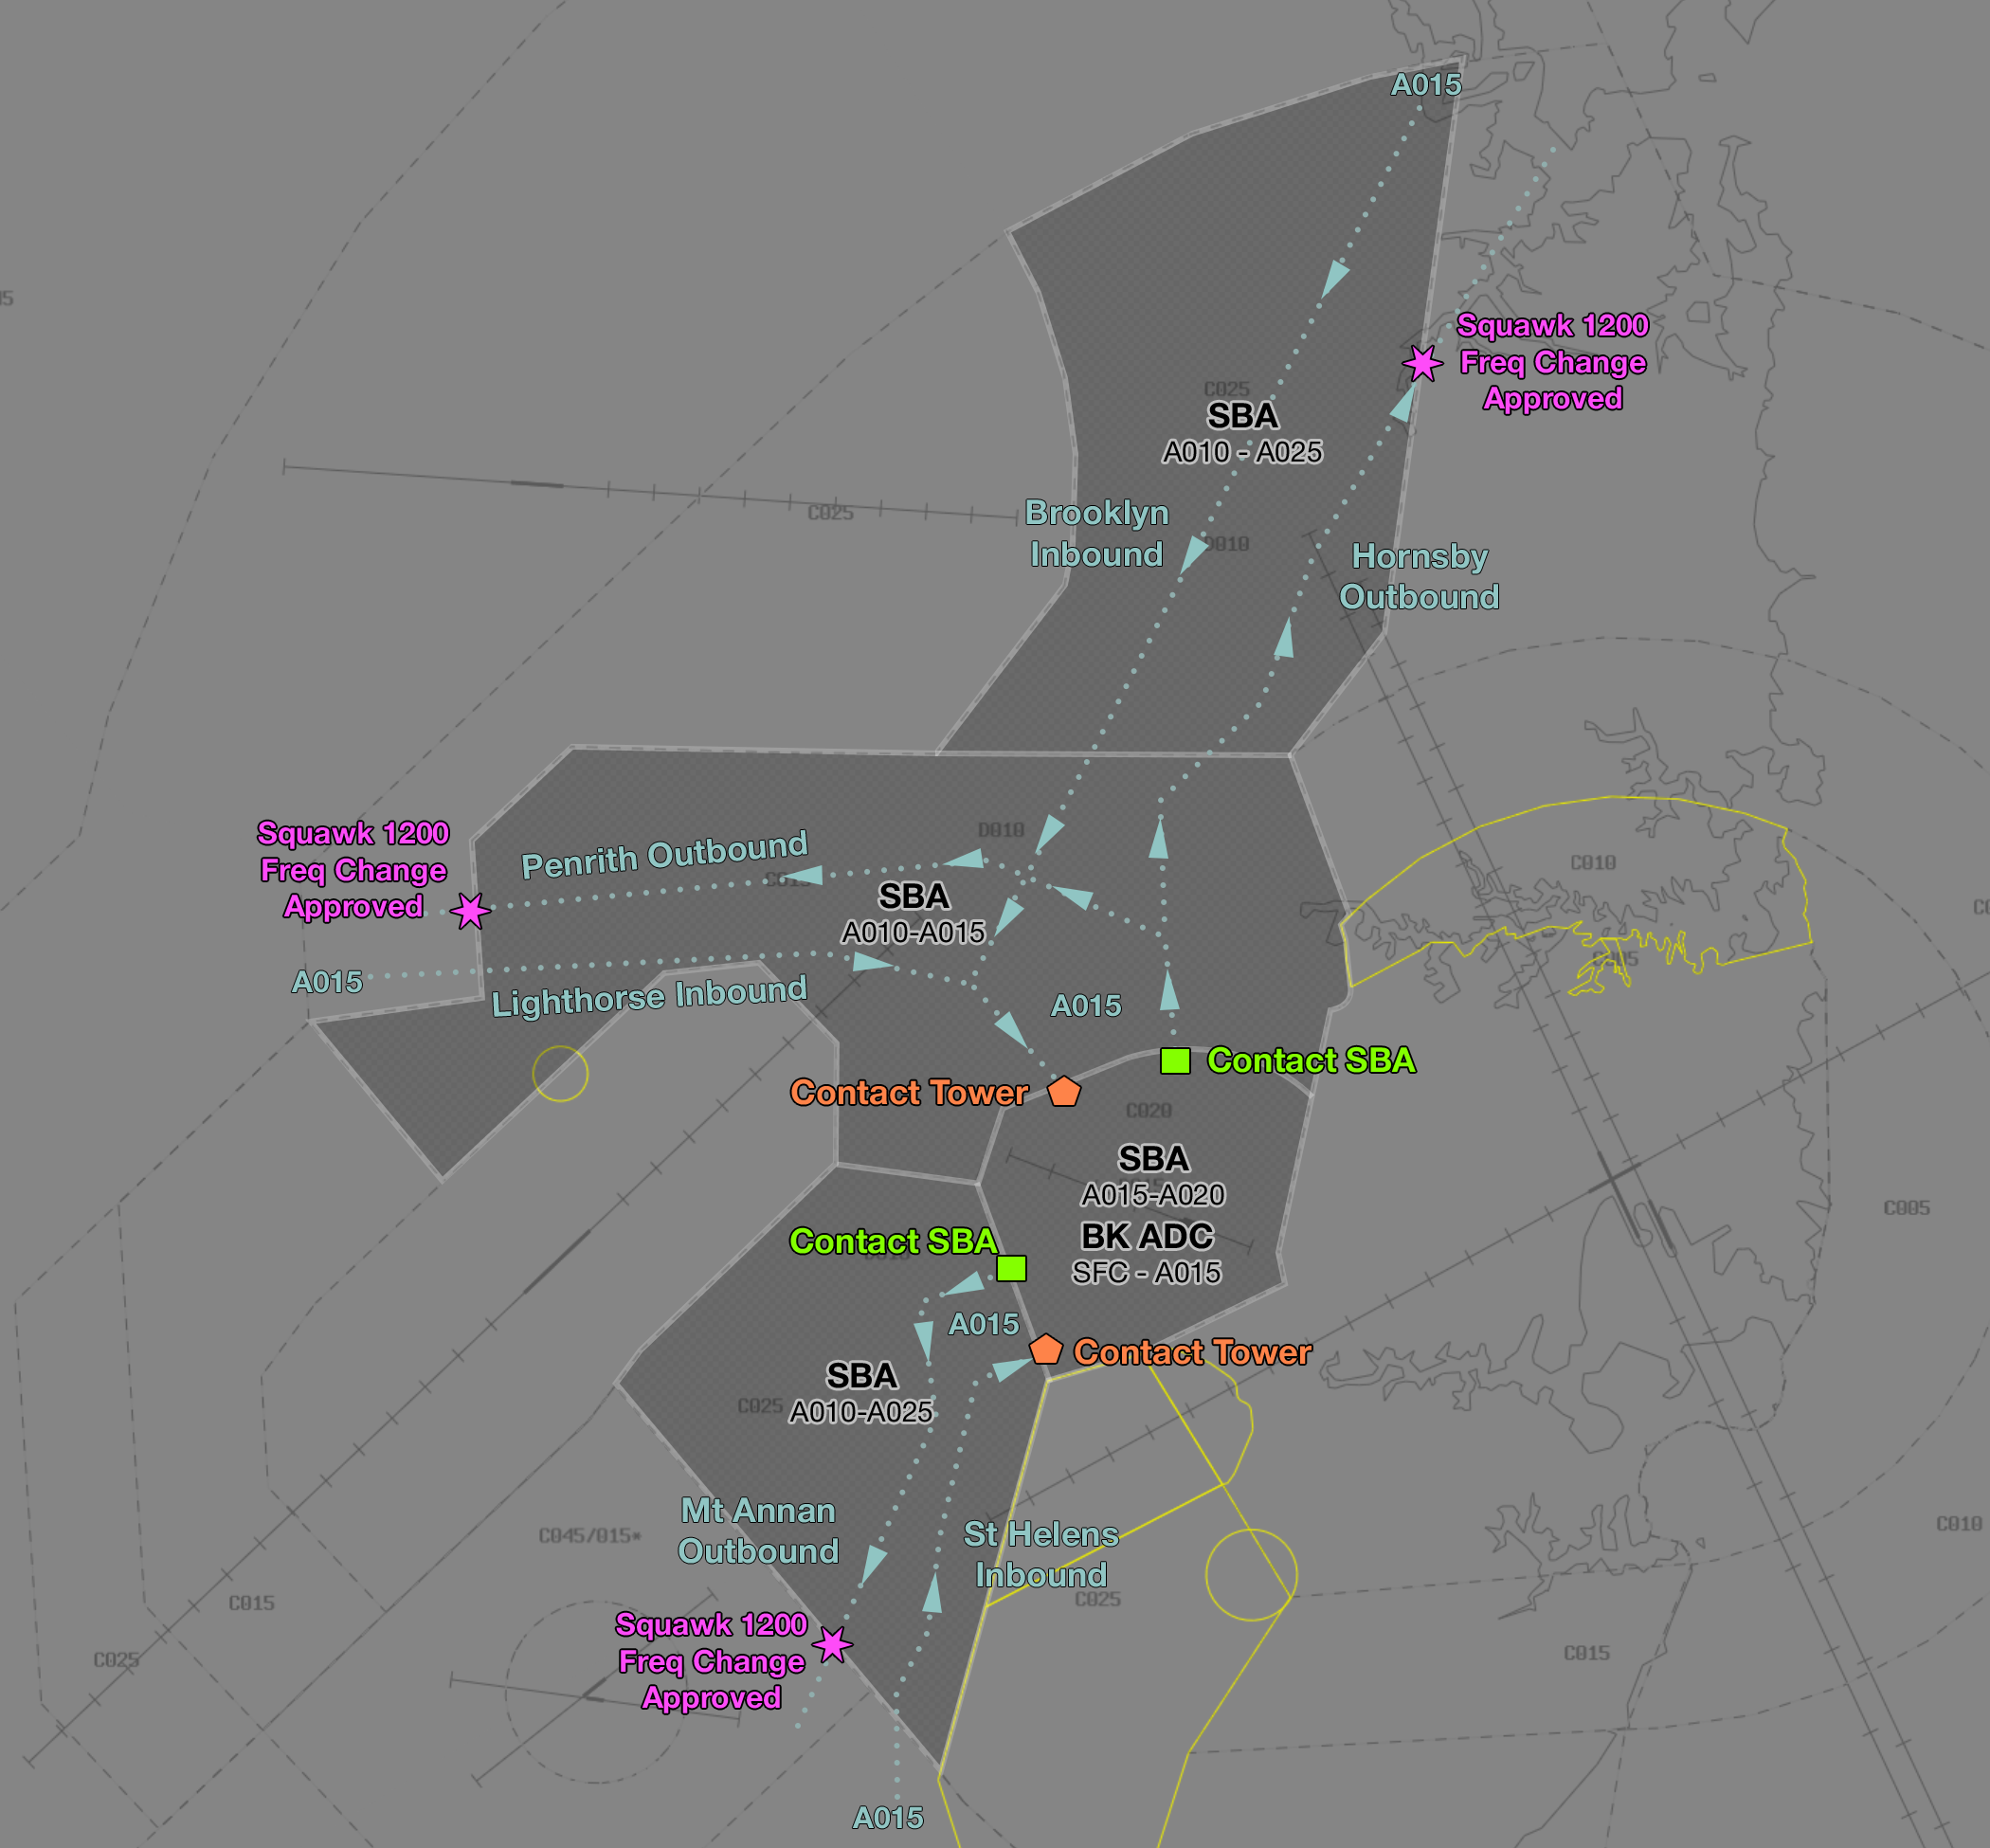
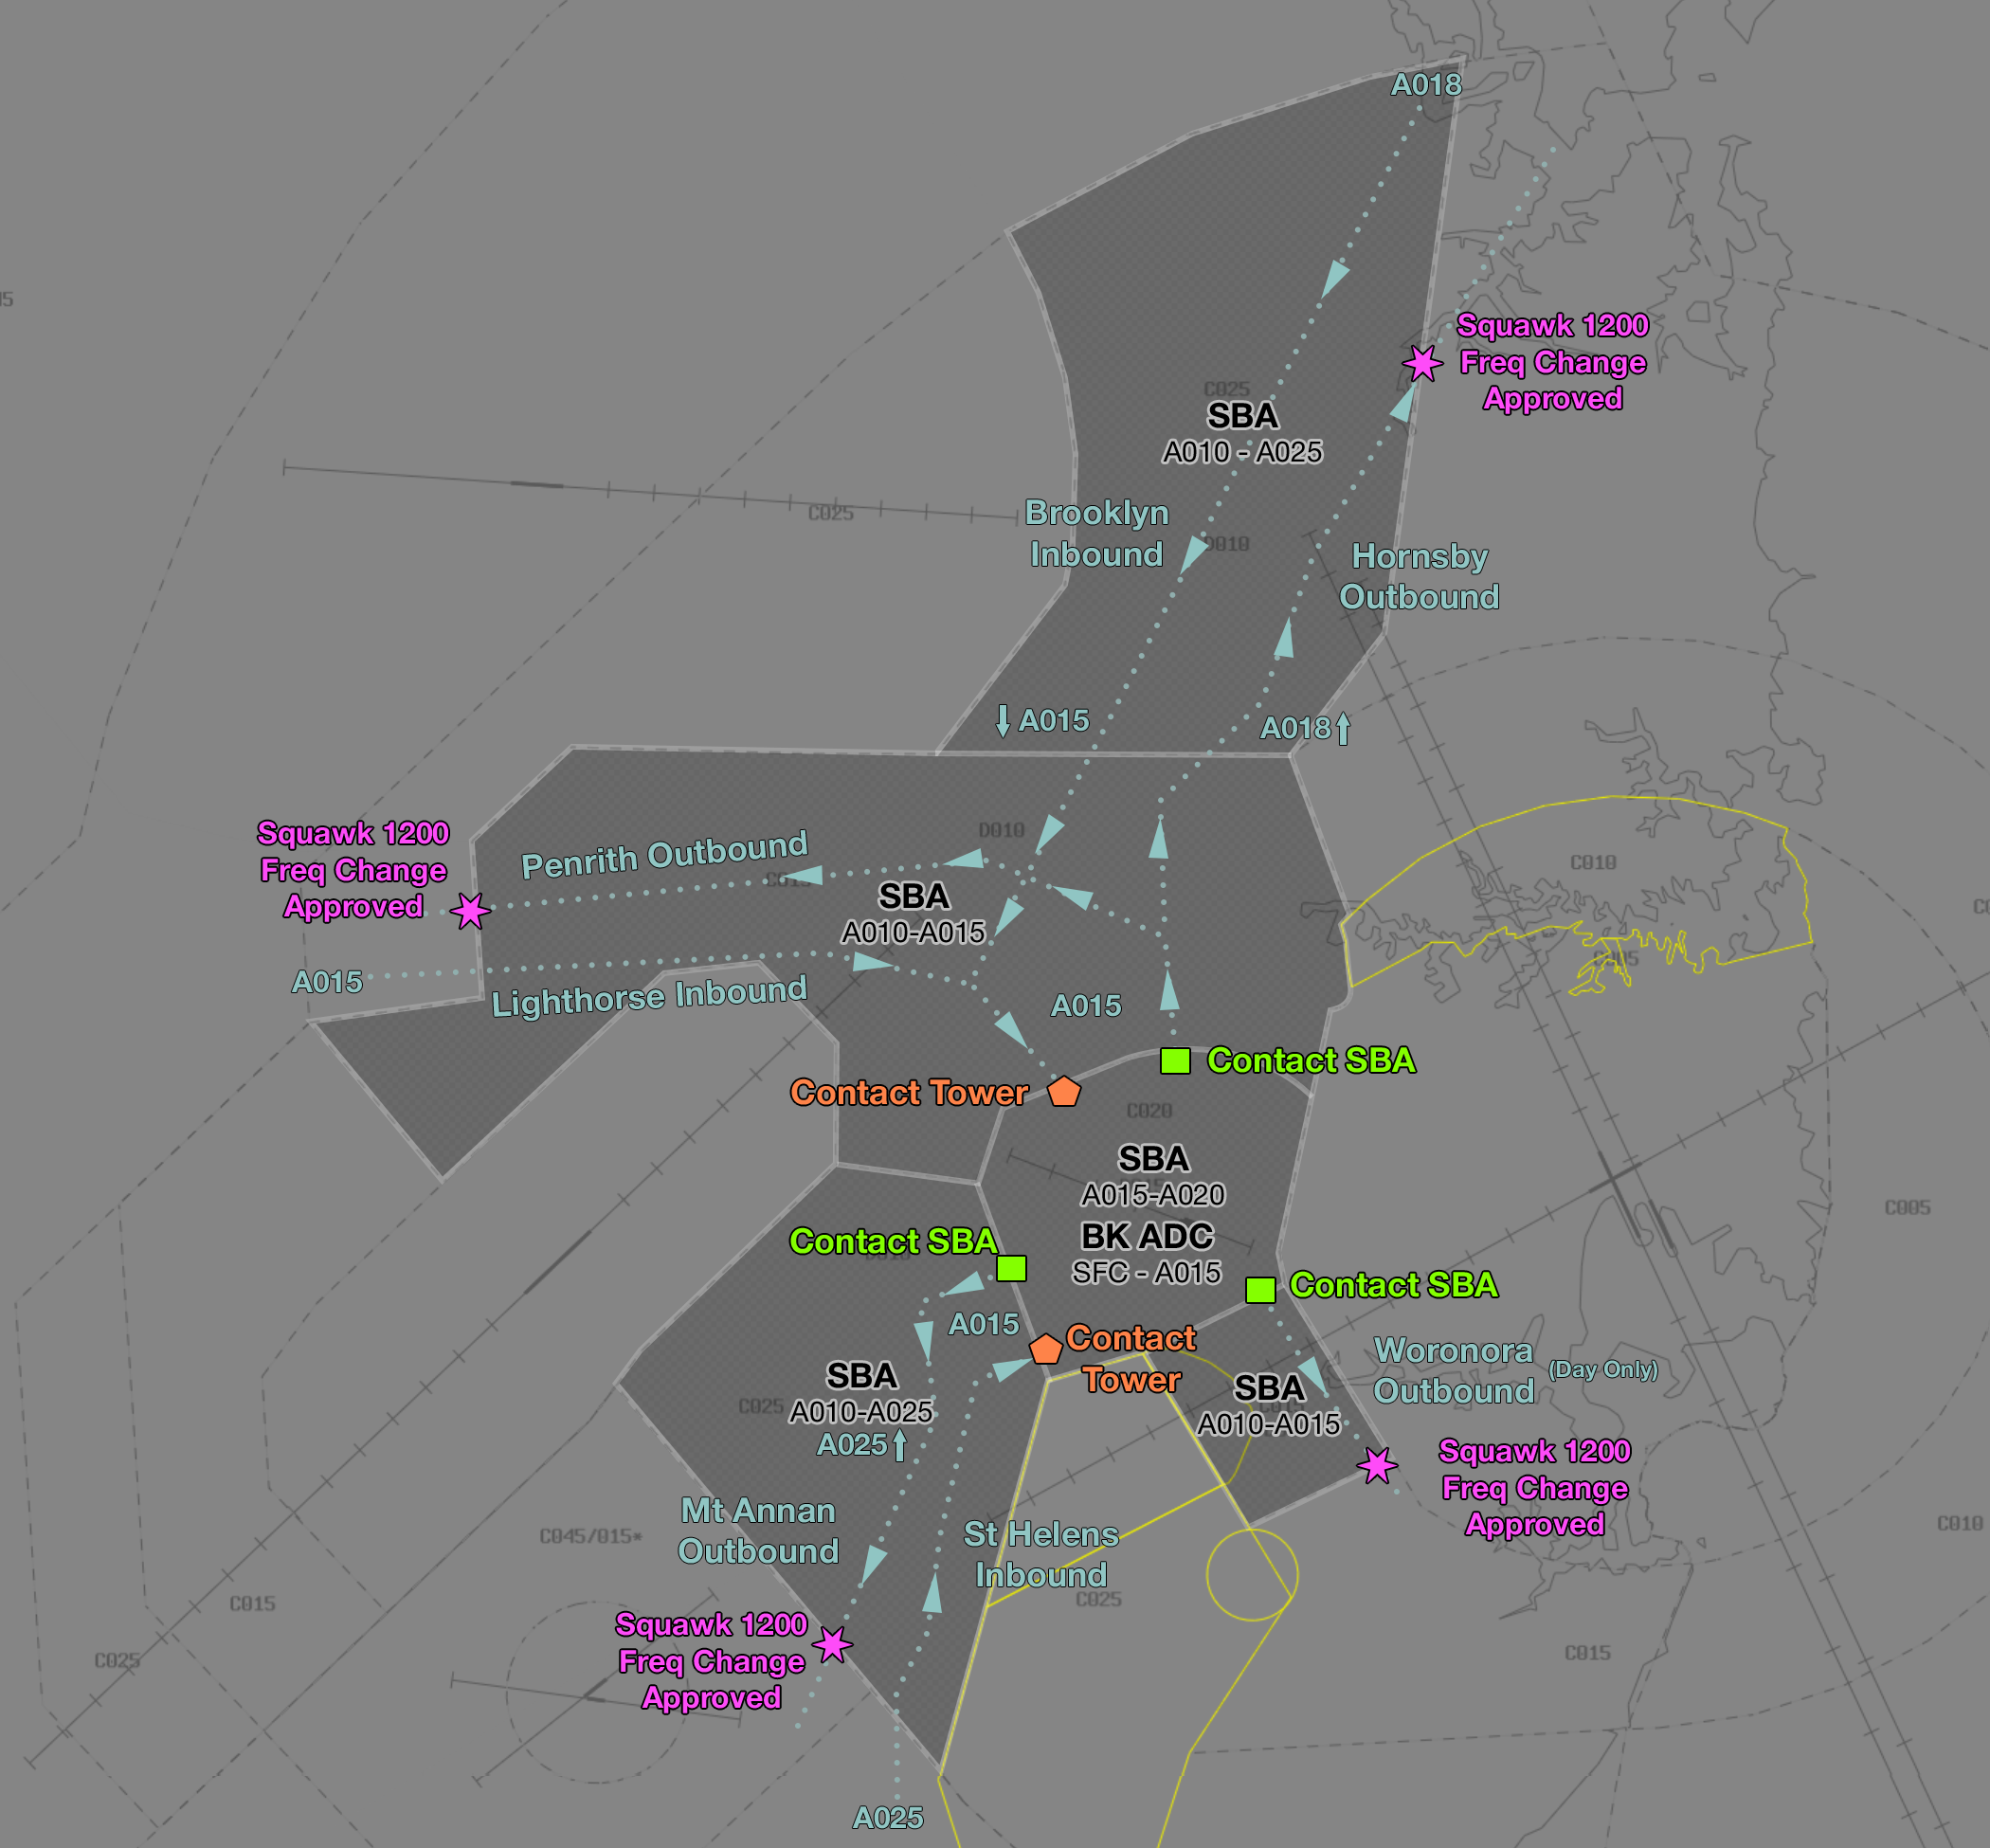
Update YSBK heli ops and add Woronora Outbound

diff --git a/docs/local-procedures/Metro D/bankstown.md b/docs/local-procedures/Metro D/bankstown.md
@@ -66,11 +66,12 @@ Each coded clearance includes tracking instructions and height requirements that
 ### Departures
 VFR aircraft intending to track via a coded clearance require an airways clearance from **BK SMC**.
 
-| Coded Clearance    | Route             | Altitude | 
-| ------------------ | ------------------- | ------ | 
-| Hornsby Outbound   | `PRT MFGC PENH HSY` | `A015` |
-| Mount Annan Outbound | `HXPR EMPS MAGG`  | `A015` |
-| Penrith Outbound   | `PRT SITS VCBR`     | `A015` |
+| Coded Clearance      | Route               | Altitude | Notes |
+| -------------------- | ------------------- | -------- | ----- |
+| Hornsby Outbound     | `PRT CFCR PENH HSY` | `A015` to CFCR, thence `A018` |  |
+| Mount Annan Outbound | `HXPR EMPS MAGG`    | `A015` to EMPS, thence `A025` |  |
+| Penrith Outbound     | `PRT SITS VCBR`     | `A015`   |       |
+| Woronora Outbound    | `REVS CASO WORC`    | `A015`   | Day Only |
 
 !!! phraseology
     **UNY**: "Bankstown Ground, Diamond UNY, taxiway L, received B, for Hornsby Outbound, request taxi"   
@@ -90,8 +91,9 @@ After takeoff, aircraft are expected to comply with the following tracking instr
 
     | Coded Clearance                       | Tracking       | 
     | ------------------------------------- | --------------------- |
-    | Mount Annan Outbound                  | <ul><li>At `A005`, turn left downwind, track to Dunc Gray Velodrome, climb to `A015`.</li><li>At Dunc Gray Velodrome and not before reaching `A015`, track to intersection of Hoxton Park Rd & M7.</li><li>Track via Mount Annan Outbound.</li></ul>
-    | Hornsby Outbound, or<br>Penrith Outbound  | <ul><li>Climb to `A005`, then turn left direct to PRT, climb to `A015`.</li><li>Track via nominated coded clearance.</li></ul>
+    | Mount Annan Outbound                  | <ul><li>At `A005`, turn left downwind, track to Dunc Gray Velodrome, climb to `A015`.</li><li>At Dunc Gray Velodrome and not before reaching `A015`, track to intersection of Hoxton Park Rd & M7.</li><li>Track via Mount Annan Outbound.</li></ul> |
+    | Hornsby Outbound, or<br>Penrith Outbound  | <ul><li>Climb to `A005`, then turn left direct to PRT, climb to `A015`.</li><li>Track via nominated coded clearance.</li></ul> |
+    | Woronora Outbound                     | As directed by ATC to REVS |
 
 === "Departure RWY 29"
 
@@ -99,6 +101,7 @@ After takeoff, aircraft are expected to comply with the following tracking instr
     | ------------------------------------- | --------------------- |
     | Mount Annan Outbound                  | <ul><li>Climb to `A010`.</li><li>Crossing Hume Highway, track to intersection of Hoxton Park Rd & M7, climb to `A015`.</li><li>Track via Mount Annan Outbound.</li></ul> |
     | Hornsby Outbound, or<br>Penrith Outbound  | <ul><li>Climb to `A005`, then turn right direct to PRT, climb to `A010`.</li><li>Crossing the pipeline (approx 3nm BK), climb to `A015`.</li><li>Track via nominated coded clearance.</li></ul> |
+    | Woronora Outbound                     | As directed by ATC to REVS |
 
 Aircraft operating on a coded clearance shall transfer to the next appropriate frequency upon leaving the zone, **no explicit frequency transfer will be given**. 
 
@@ -114,9 +117,9 @@ VFR aircraft inbound to YSBK shall contact **SYC on 124.55** prior to entering C
 
 | Coded Clearance    | Route             | Altitude | 
 | ------------------ | ------------------- | ------ | 
-| Brooklyn Inbound   | `BBG CAST PSP`      | `A015` |
+| Brooklyn Inbound   | `BBG BEE CAST BKHR PSP`      | `A018` on descent to reach `A015` by BKHR |
 | Lighthorse Inbound | `NPBR LIHR PSP`     | `A015` |
-| St Helens Inbound  | `SSKP CRST CRSC`   | `A015` |
+| St Helens Inbound  | `SSKP CRST CRSC`   | `A025` on descent to reach `A015` by CRSC |
 
 Establishing two-way communication with ATC constitutes a clearance to enter CTA as requested (other than an instruction to standby or similar).
 
@@ -185,19 +188,29 @@ Three helicopter reporting points help keep helicopters segregated from other tr
 - **CSTH**: Intersection of two creeks enclosing a sewage treatment works 2.1nm south of the aerodrome reference point
 
 ### Inbound Procedures
-Helicopters should track inbound at `A007` via one of the normal inbound points (PSP or CRSC) or via *Olympic Park* and report to **BK ADC** at that point. In response, **BK ADC** will instruct the aircraft to track as below:
+Helicopters should track inbound to the BK CTR as per below:
+
+- Via a coded clearance or inbound reporting point (PSP or CRSC), or
+- From R407, tracking RYB-CWST/CNTH (depending on runway mode) at `A007`
+
+Pilots must report to **BK ADC** prior to entering the BK CTR and expect tracking instructions as per below:
 
 | Inbound Point | RWY 11 | RWY 29 |
 | ----------------| --------- | ---------- |
 | PSP | *"Report CWST"*, then <br>*"Join base main pad"* | *"Report CNTH"*, then <br>*"Join base main pad"* |
 | CRSC | *"Report CSTH, `A005`"*, then <br>*"Overfly midfield at `A005`, join downwind main pad"* | *"Report CSTH, `A005`"*, then <br>*"Overfly midfield at `A005`, join downwind main pad"* |
-| *Olympic Park* | *"Report CWST"*, then <br>*"Join base main pad"* | *"Report CNTH"*, then <br>*"Join base main pad"* |
+| RYB | *"Report CWST"*, then <br>*"Join base main pad"* | *"Report CNTH"*, then <br>*"Join base main pad"* |
 
 !!! note
     Helicopters tracking via CSTH will pass over the runway complex midfield at `A005` to join downwind. Traffic information will be provided on aircraft operating to the runways below.
 
 ### Outbound Procedures
-Helicopters should track outbound via one of the helicopter reporting points at `A007`. Departures to the north must track via CWST when RWY 29s are in use and CNTH when RWY 11s are in use.
+Helicopters should track outbound from the BK CTR as per below:
+
+- Via a coded clearance, or
+- To R407, tracking CWST/CNTH-RYB (depending on runway mode) at `A007`
+
+Departures to the north must track via CWST when RWY 29s are in use and CNTH when RWY 11s are in use.
 
 Helicopters shall report ready to **BK ADC** with their departure intentions. In response, **BK ADC** will clear the aircraft for takeoff and instruct them to track via the appropriate exit gate.
 
@@ -206,7 +219,7 @@ Helicopters shall report ready to **BK ADC** with their departure intentions. In
     **BK ADC:** "YZD, Bankstown Tower, depart Choppers North, main pad, cleared for takeoff"
 
 !!! note
-    Helicopters tracking via CSTH will pass over the runway complex midfield at `A005` to join downwind. Traffic information will be provided on aircraft operating to the runways below.
+    Helicopters tracking via the Mt Annan Outbound will pass over the runway complex midfield at `A005` to join downwind. Traffic information will be provided on aircraft operating to the runways below.
 
 ### Circuits
 Circuits are conducted within the lateral confines of the fixed-wing circuit at `A007`, in the same direction as the current runway config. The termination point of the circuit is the Main Pad.

diff --git a/includes/abbreviations.md b/includes/abbreviations.md
@@ -209,6 +209,16 @@
 *[CSTH]: Choppers South
 *[PSP]: Prospect Reservoir
 *[CRSC]: Crossroads Shopping Centre
+*[BBG]: Brooklyn Bridge
+*[BEE]: Berilee
+*[CAST]: Castle Towers
+*[BKHR]: Baulkham Hills Reservoir
+*[LIHR]: Lighthorse Interchange
+*[SSKP]: St Helens Skate Park
+*[CRST]: Campbelltown Railway Station
+*[REVS]: Revesby Station
+*[CASO]: Casuarina Oval
+*[WORC]: Woronora Cemetery
 *[EDT]: Edmonton
 *[CGF]: Cape Grafton
 *[ADI]: Admiralty Island